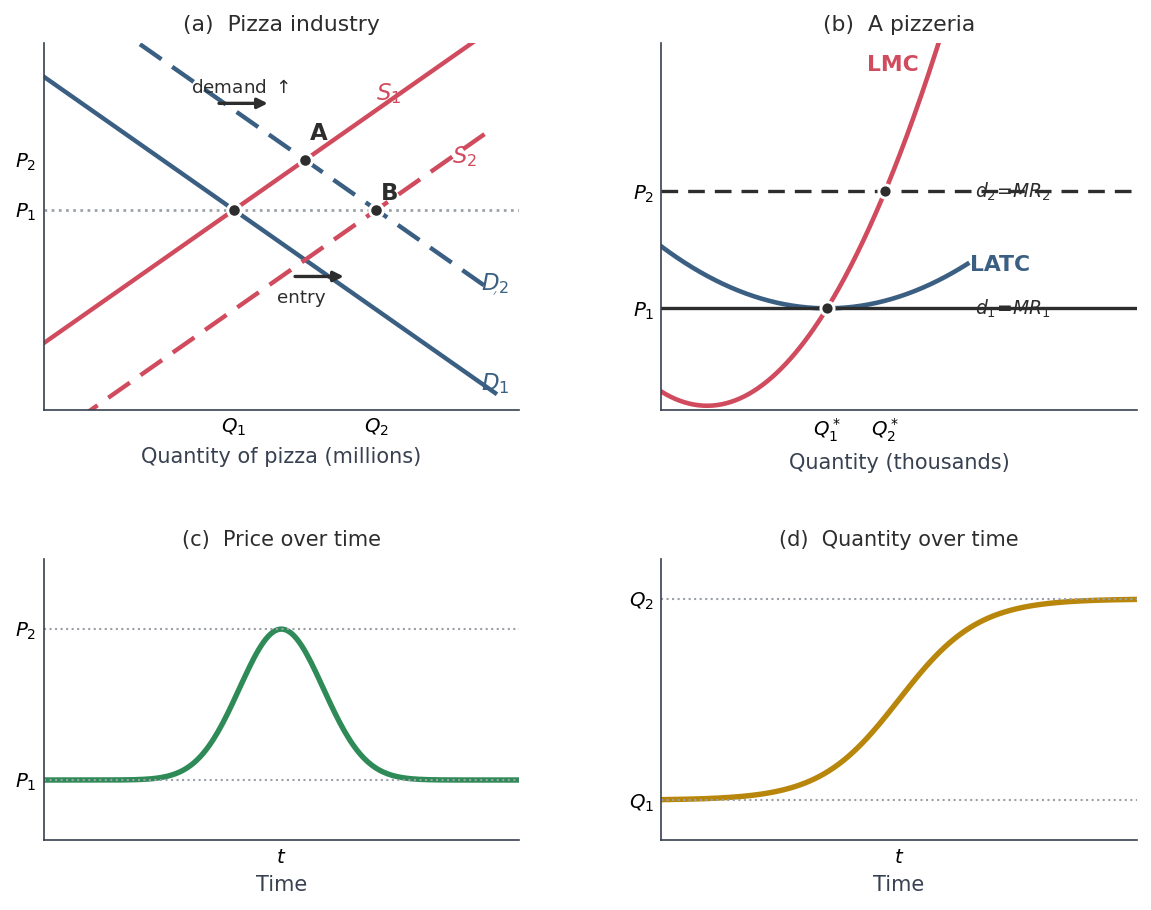
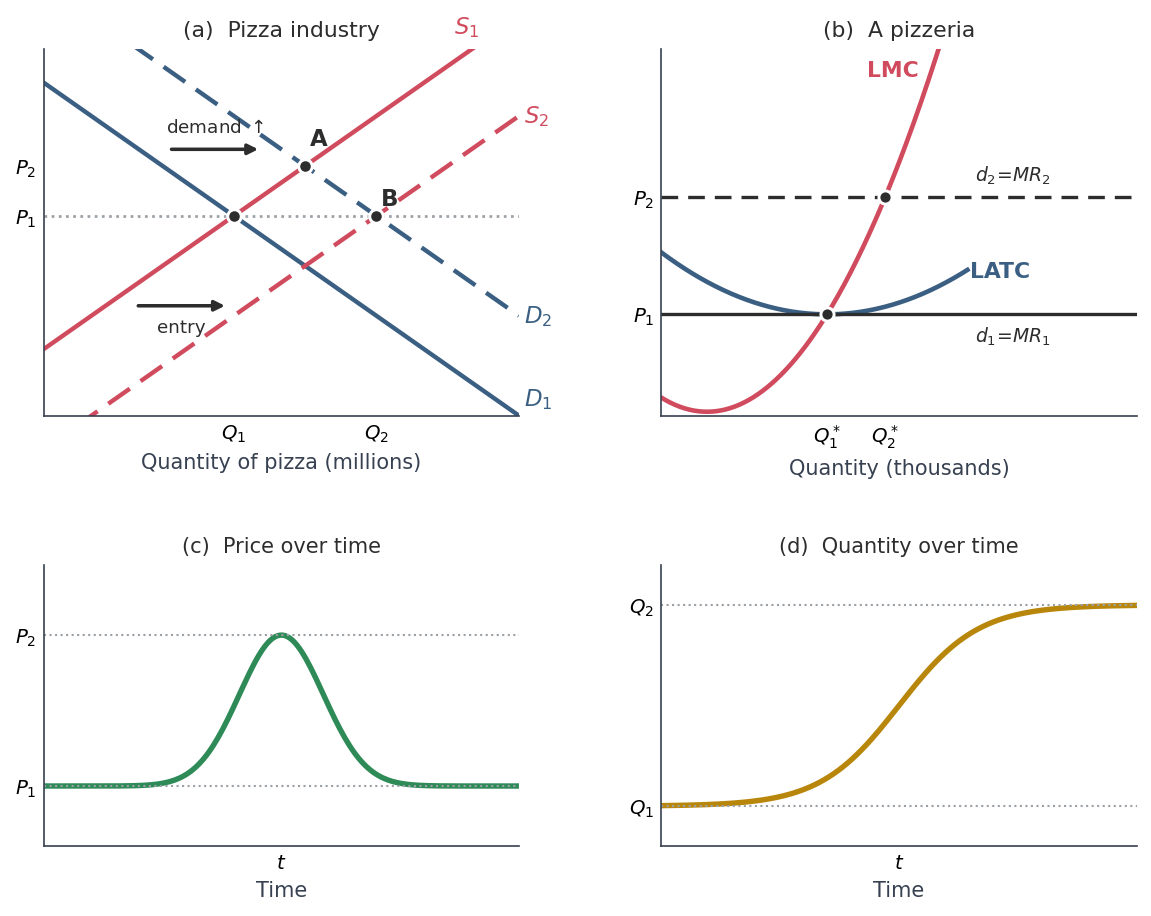
ch10 (2316): fix LR-adjustment figures (curve labels off the lines, shift arrows in the gap between paired curves, d=MR labels lifted off price lines); add egg-market time-path panels (price/quantity over time) to the biology slide

diff --git a/econ2316/ch10-perfect-competition/index.html b/econ2316/ch10-perfect-competition/index.html
@@ -1253,6 +1253,10 @@
       <p style="font-size: 11pt; color: var(--muted-color); margin: 6px 0 0;">Fig 10.8 &mdash; HPAI supply shock and recovery in the egg market.</p>
     </div>
   </div>
+  <div style="text-align: center; margin-top: 4px;">
+    <img alt="Two time-path panels for the HPAI egg shock: panel a shows the retail egg price starting near $1.75, spiking to about $4.95 by January 2025, then settling near $2.35 by March 2026; panel b shows egg output dipping to a trough during the cull and recovering to its pre-shock level as the flock is rebuilt" class="figure" src="figures/fig-eggs-time.png" style="max-height: 208px; margin: 0 auto;">
+    <p style="font-size: 11pt; color: var(--muted-color); margin: 6px 0 0;">Because the shock is <strong>temporary</strong>, the price spikes then recedes and output dips then recovers &mdash; at the speed the flock can be rebuilt, not instantly.</p>
+  </div>
   <aside class="notes">The chapter's sharpest contrast: the gigafactory's long-run input is capital (\$15B, 2&ndash;4 year builds); the egg market's long-run input is the layer flock, which grows at a fixed biological rate (18&ndash;20 week pullet maturation) that no amount of money can speed up. Both are "long-run adjustments" in the economic sense &mdash; the SR-fixed input becomes variable &mdash; but the binding constraint and the adjustment speed differ. TheoryAndData 10.3 has a real welfare lesson: treating a biological shock as permanent overstates consumer-surplus losses 3&ndash;4&times;, because flocks <em>do</em> rebuild. The welfare theorem holds at each instant; the path of losses depends on recovery speed.</aside>
 </section>
 
